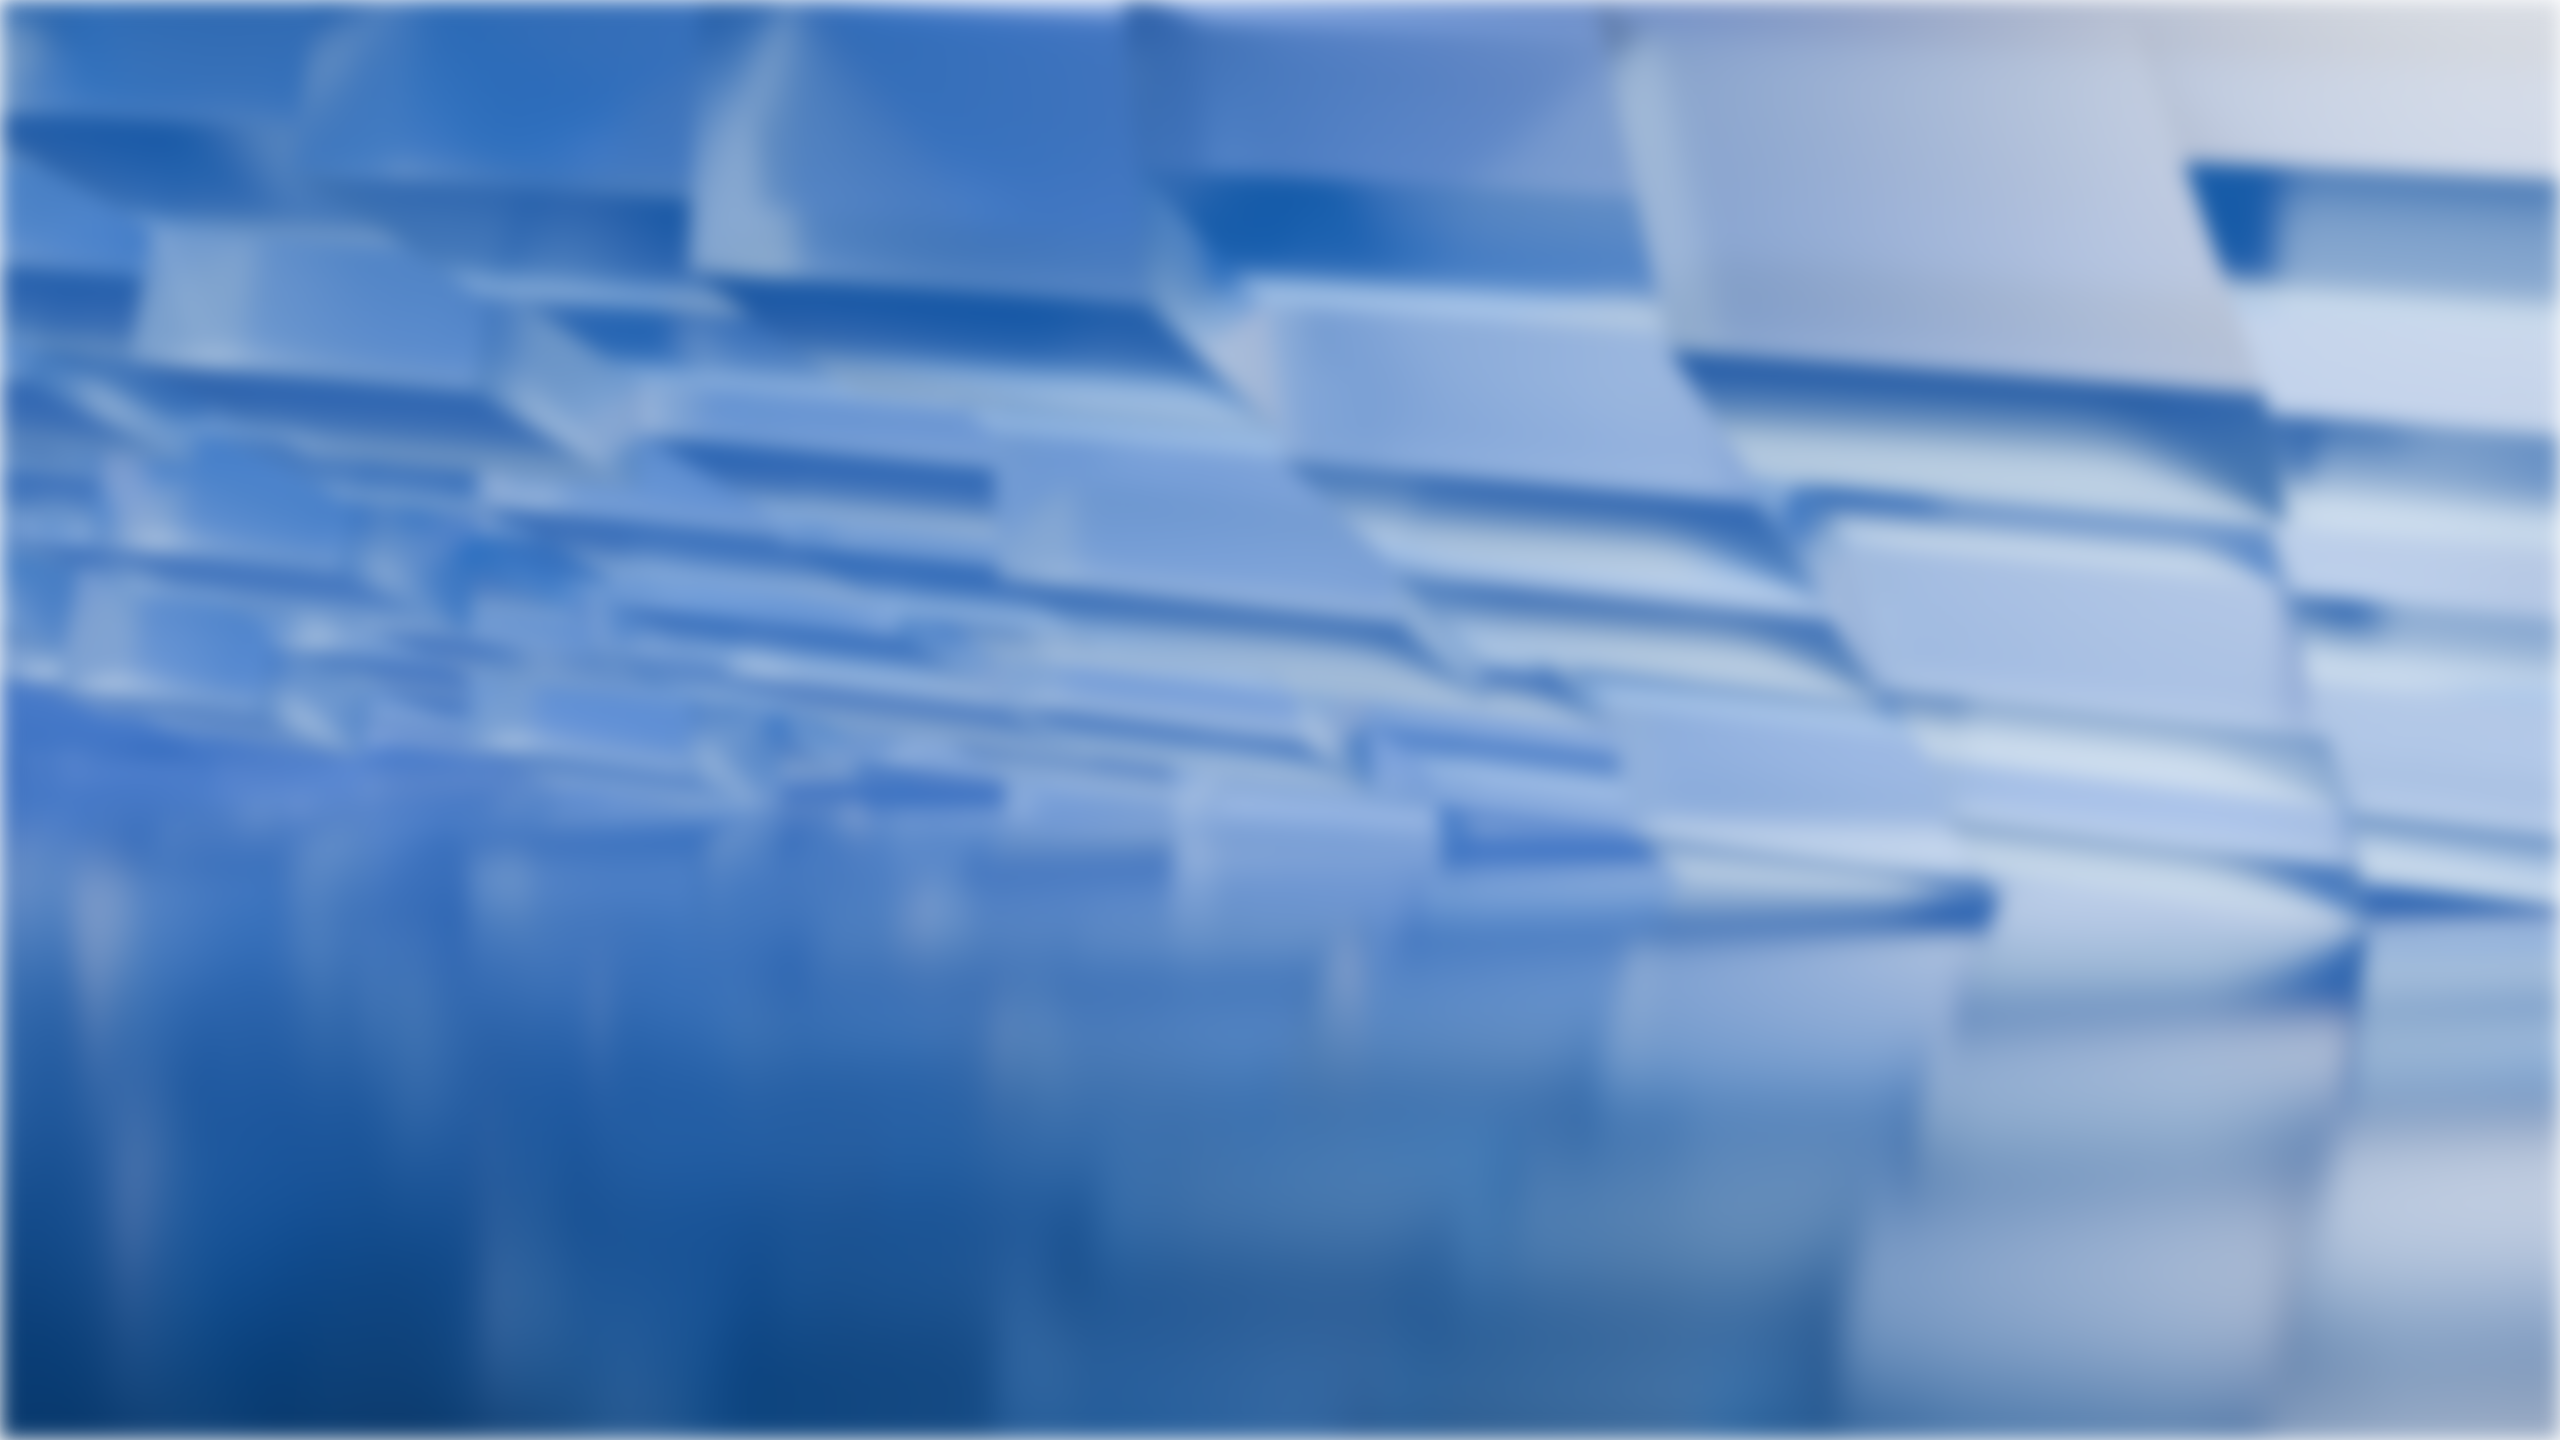
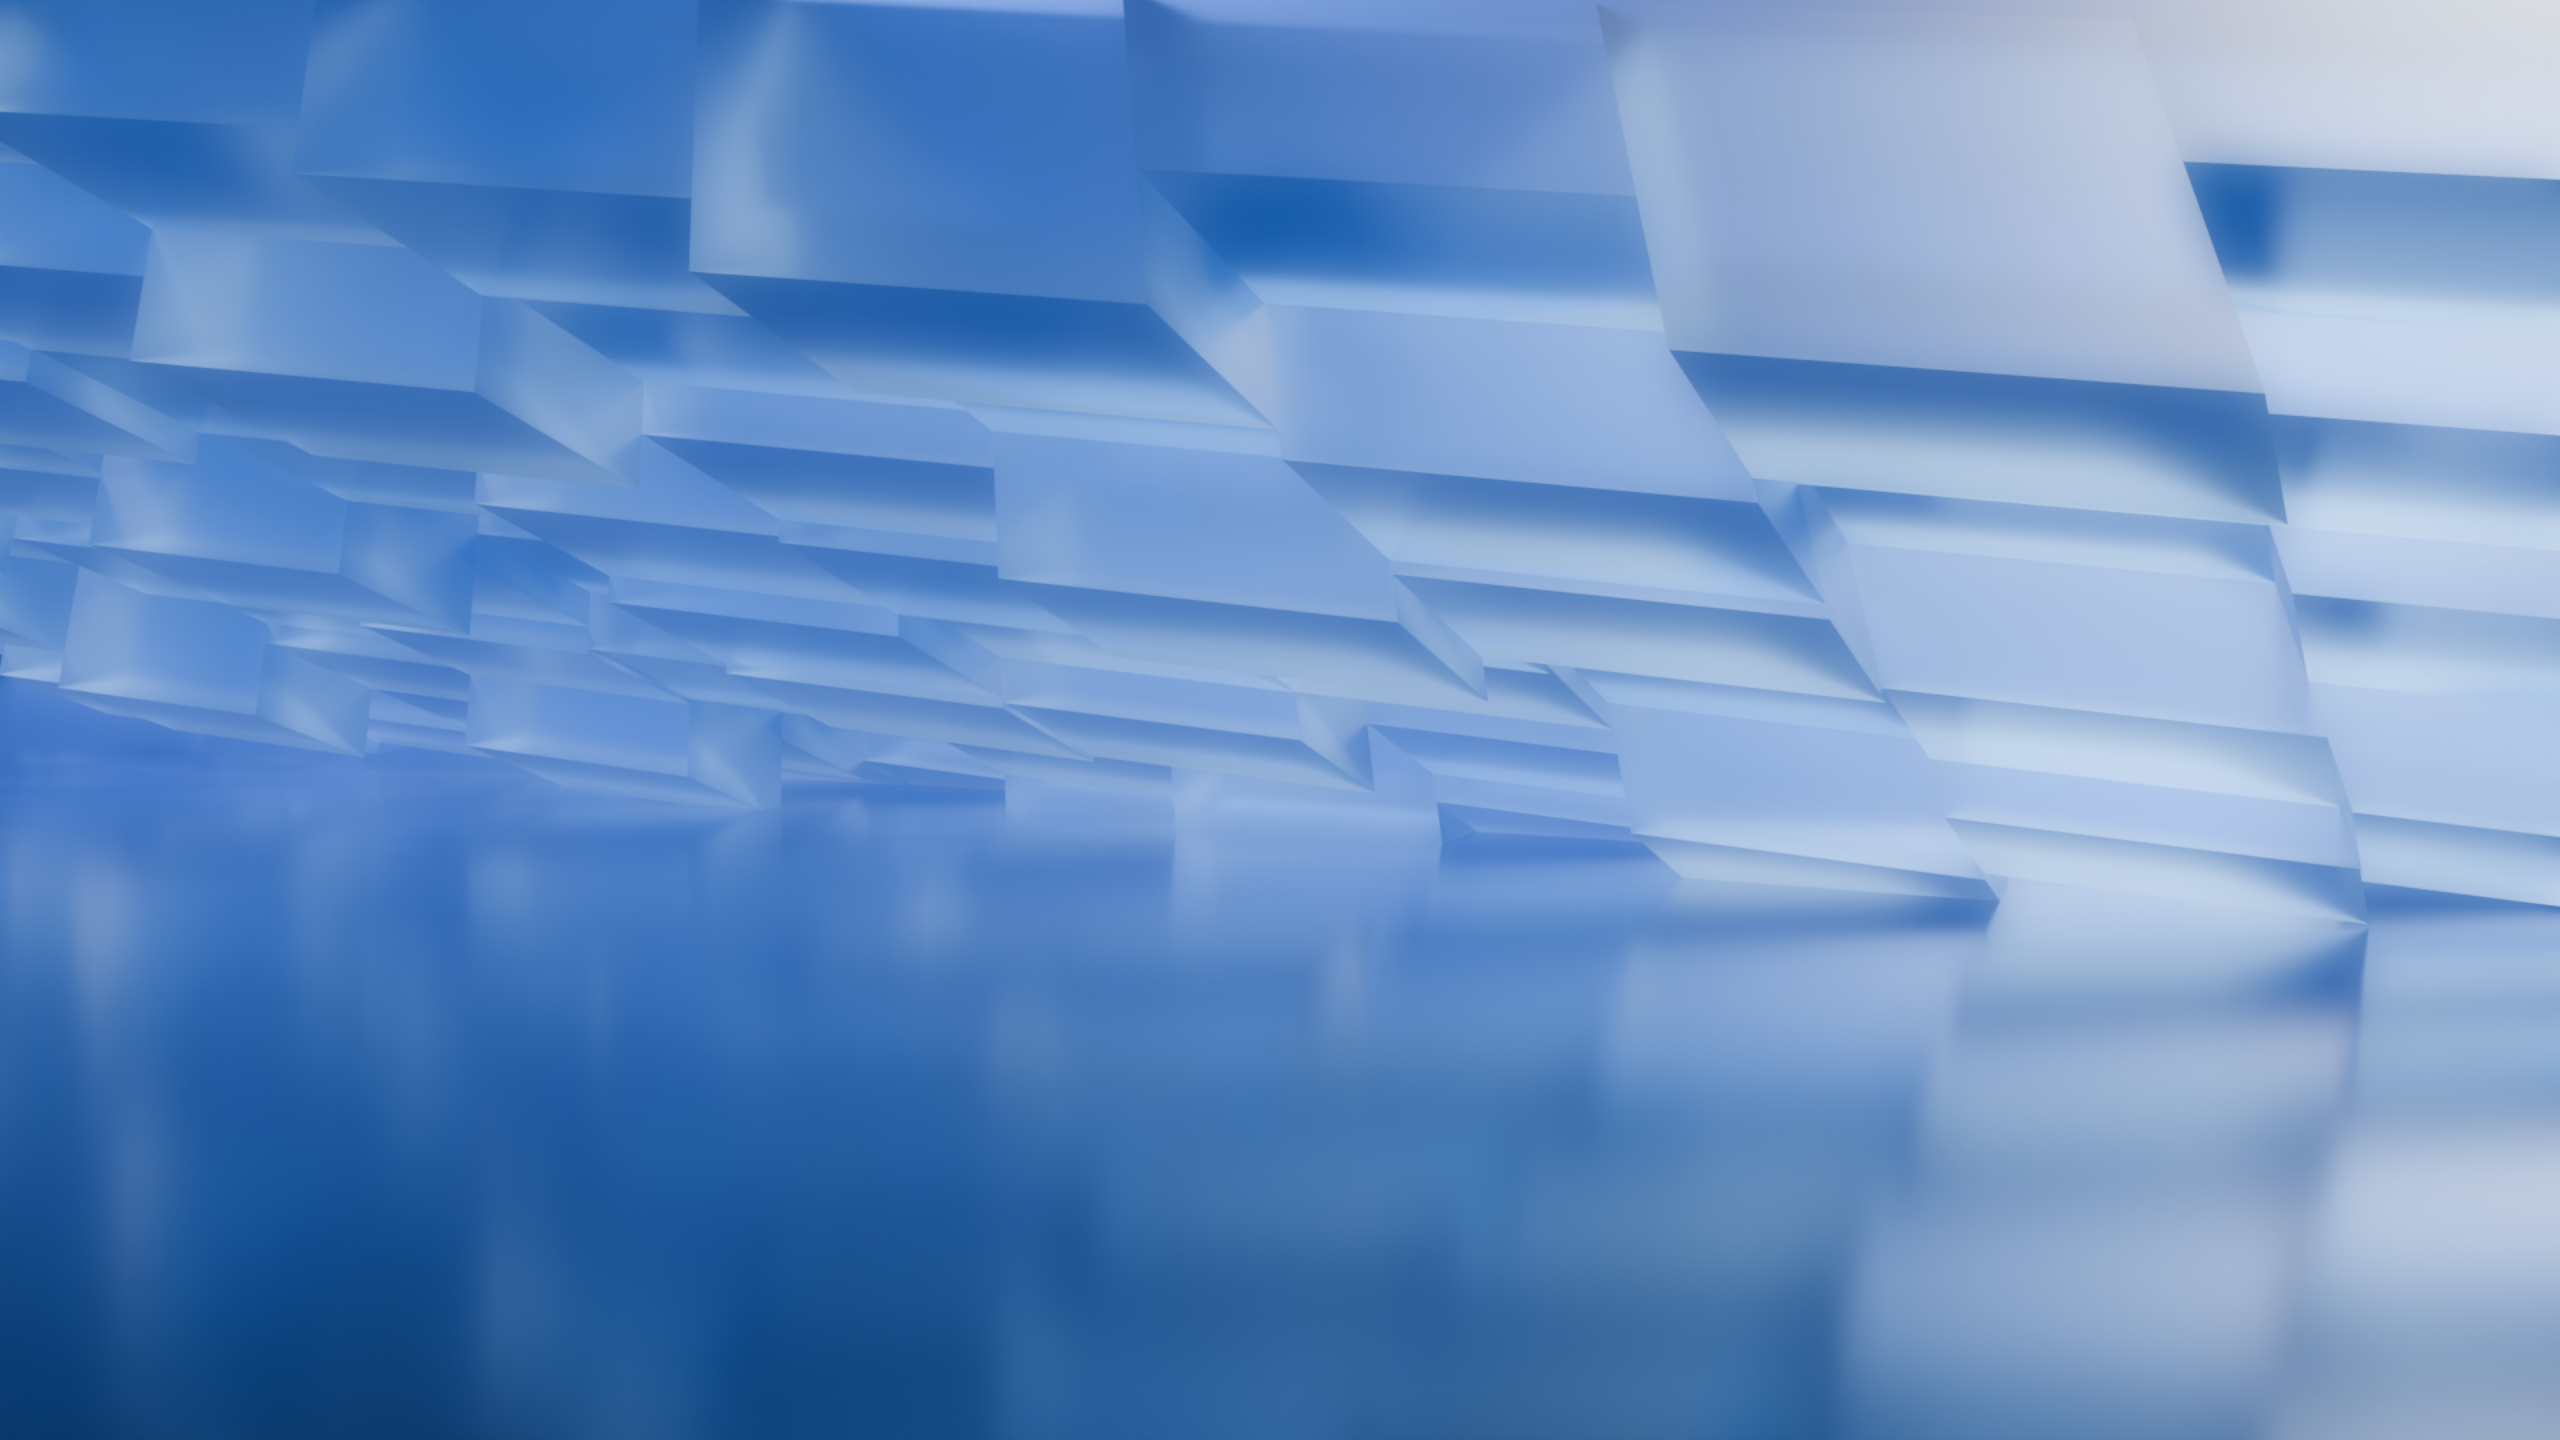
fun

diff --git a/style.css b/style.css
@@ -8,7 +8,7 @@
 /*landing page properties*/
 
 .index {
-    background-image:url(images/pagebackground.png);
+    background-image:url(images/background.png);
     position:relative;
     background-repeat:no-repeat;
     background-size:cover;
